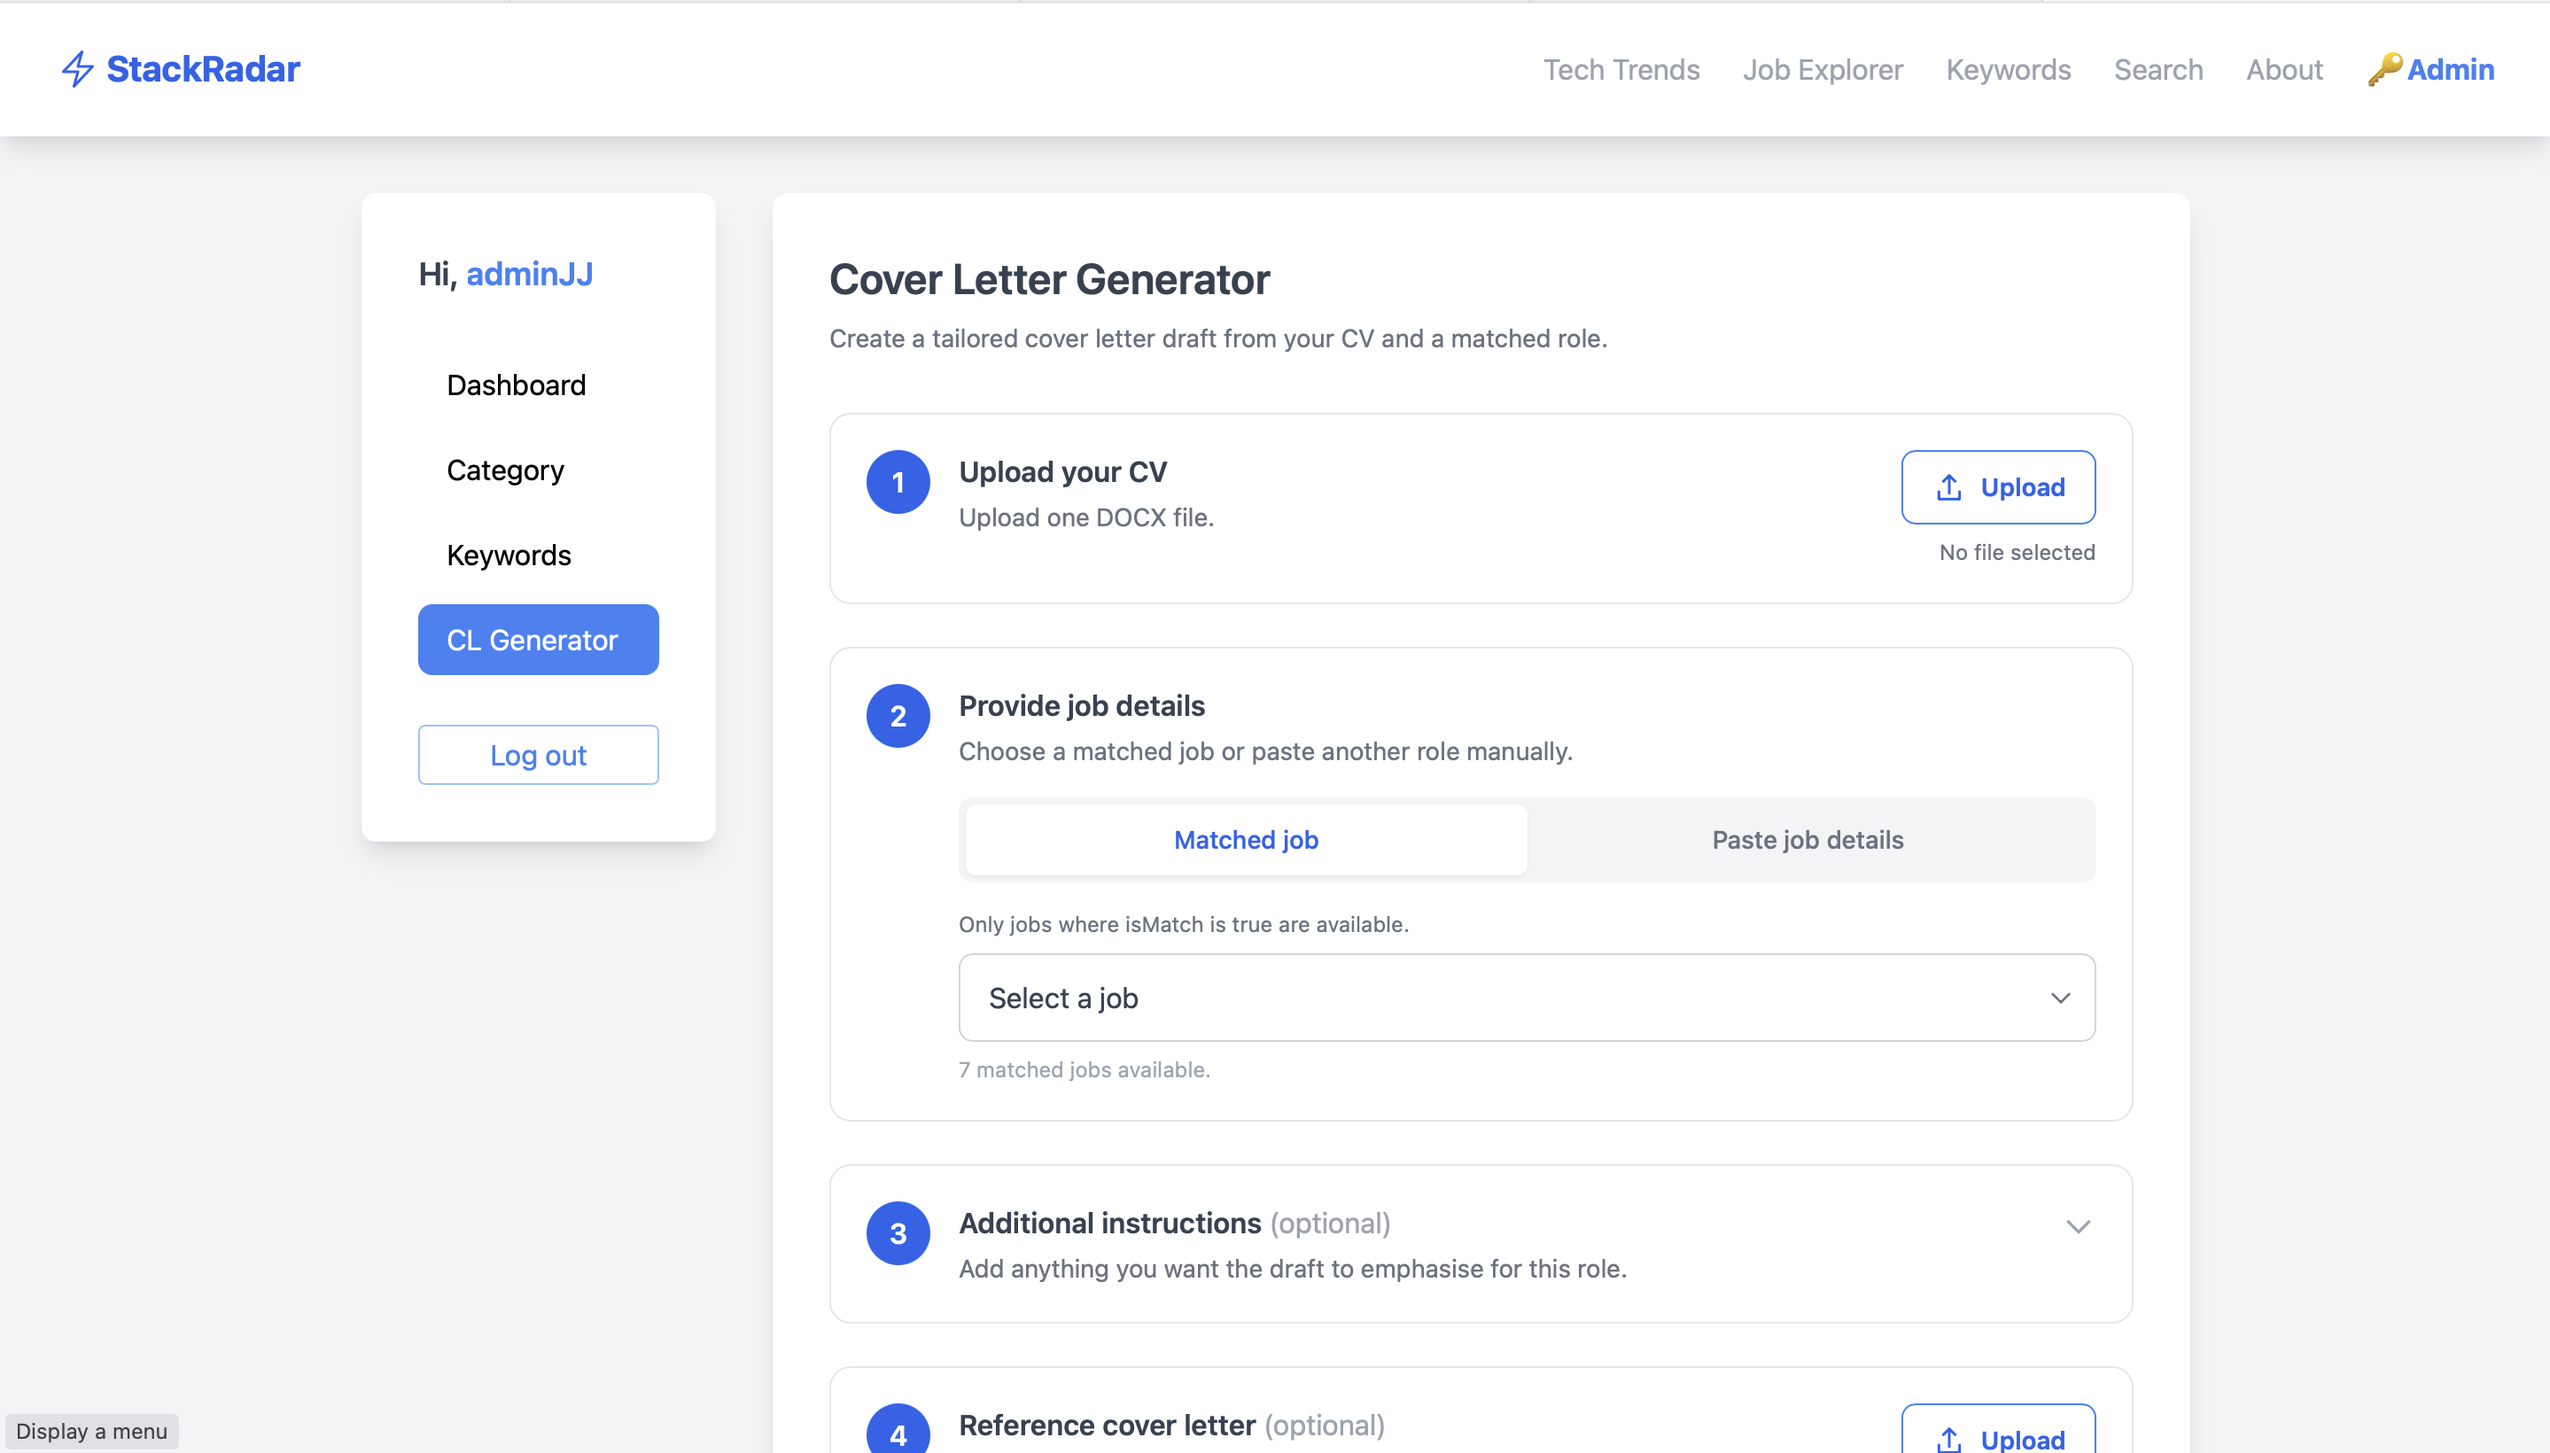
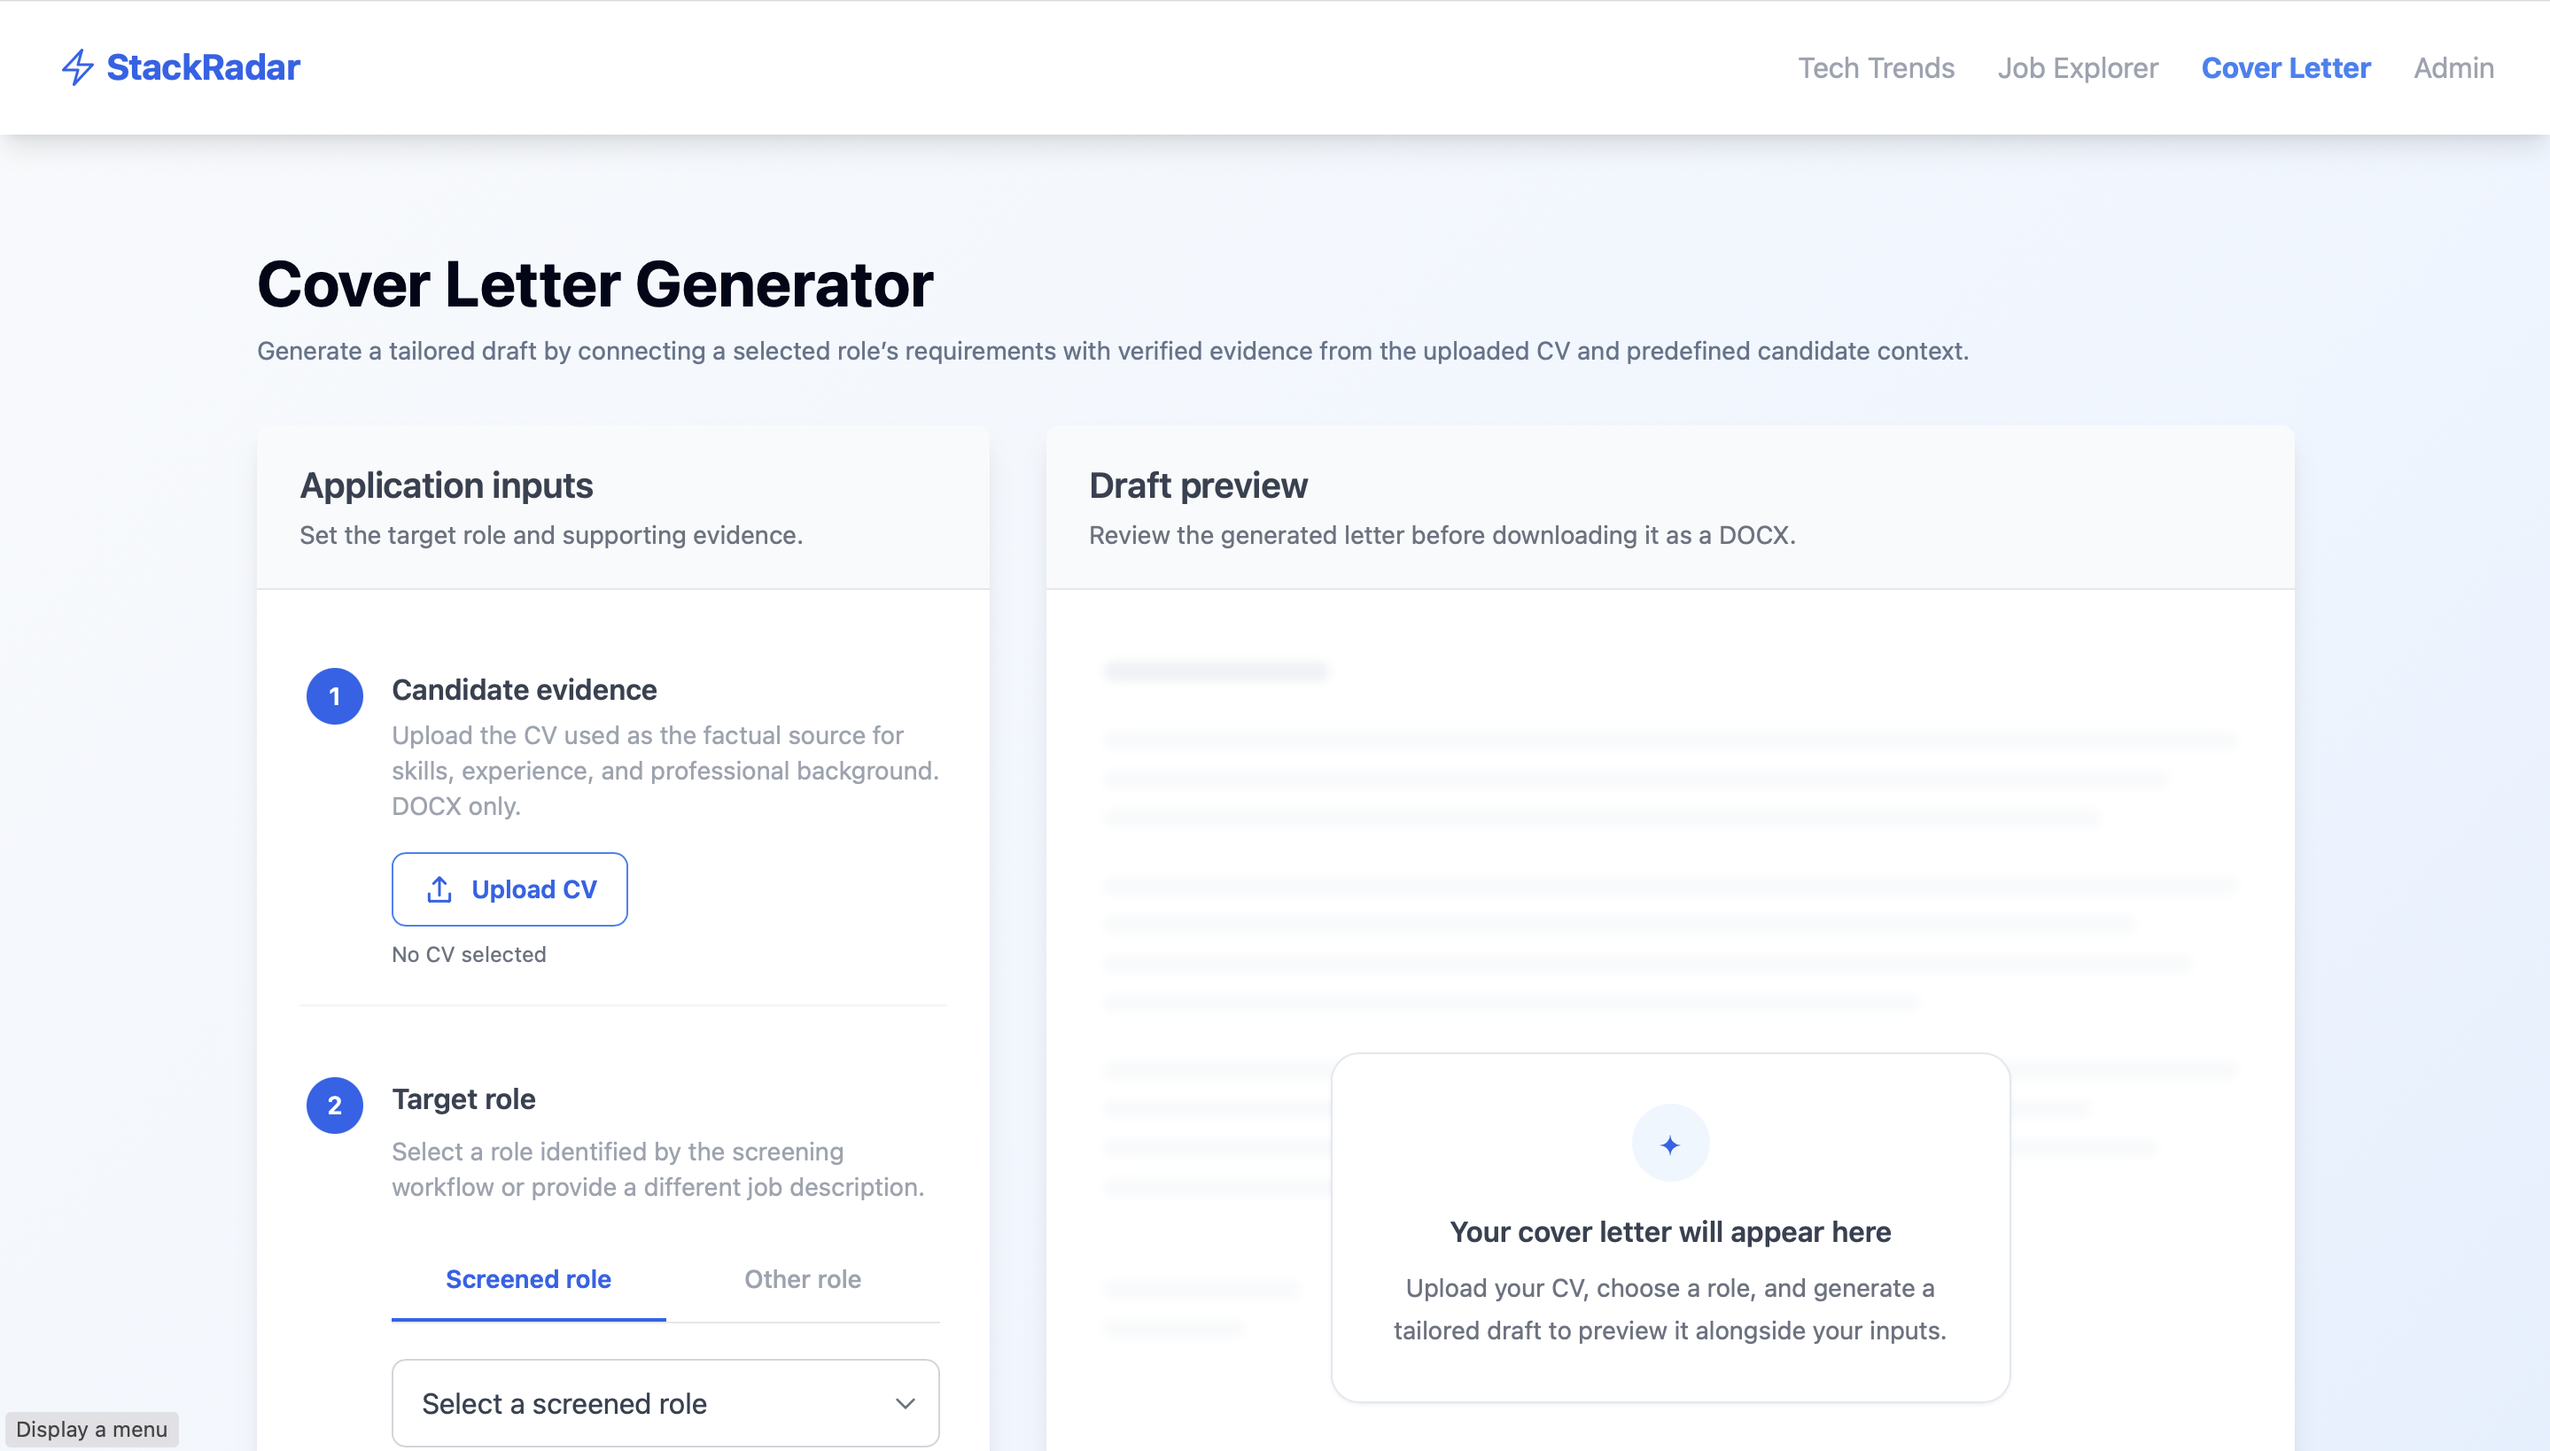
Updated Landing Page

diff --git a/02_frontend/index.html b/02_frontend/index.html
@@ -15,7 +15,7 @@
         <script src="https://cdn.jsdelivr.net/npm/tsparticles@2/tsparticles.bundle.min.js"></script>
 
     </head>
-    <body class="relative bg-gradient-to-r from-gray-400 via-slate-50 to-slate-100 flex justify-center items-center min-h-screen p-16">
+    <body class="relative flex min-h-screen items-center justify-center bg-gradient-to-r from-gray-400 via-slate-50 to-slate-100 p-6 pt-20 sm:p-10 sm:pt-20 lg:p-16">
         <!-- background container for the tsparticles animation -->
         <div id="tsparticles" class="absolute inset-0 -z-10"></div>
         <!-- the platform name at the top left corner -->
@@ -26,54 +26,41 @@
             <div class="text-xl   text-gray-500">StackRadar</div>
         </div>
         <!-- main content container -->
-        <div class="z-10 flex flex-col lg:mt-8 items-center min-w-[375px]  ">
-            <div class="text-center  ">
-                <p class=" text-3xl sm:text-4xl  lg:text-5xl  font-bold text-blue-600  mb-4 opacity-0 animate-[fadeIn_0.5s_ease-in-out_0.7s_forwards]">
-                    Discover the Most In-Demand Tech Stacks                
-                </p>
-                <p class="text-xl font-semibold sm:text-3xl lg:text-2xl font-mono   text-gray-600 mb-10 opacity-0 animate-[fadeIn_0.5s_ease-in-out_1.4s_forwards]">
-                    From Real Job Data
-                </p>
-                <p class=" hidden md:block text-md text-gray-500 mb-6 opacity-0 animate-[fadeIn_0.5s_ease-in-out_2.1s_forwards]">
-                    A job-market analytics platform built to uncover New Zealand’s most in-demand tech stacks <br>
-                    through comprehensive analysis of real, up-to-date job postings.
-                </p>
+        <main class="relative z-10 w-full max-w-6xl">
+            <div class="grid items-stretch gap-12 lg:grid-cols-[minmax(280px,0.65fr)_minmax(0,1.35fr)] lg:gap-16">
+                <section class="flex flex-col gap-8 text-left lg:order-2">
+                    <h1 class="max-w-3xl text-4xl font-bold leading-tight text-blue-600 opacity-0 animate-[fadeIn_0.5s_ease-in-out_1.4s_forwards] sm:text-5xl lg:text-5xl">
+                        AI-Powered Job Search System
+                    </h1>
+                    <p class="max-w-2xl text-base leading-7 text-gray-600 opacity-0 animate-[fadeIn_0.5s_ease-in-out_1.9s_forwards]">
+                        Each day, StackRadar collects newly listed IT jobs from SEEK New Zealand and uses LLMs and machine learning to uncover technology trends, identify roles that match a predefined candidate profile, and generate tailored cover letters.
+                    </p>
 
-                <div class="flex  gap-x-8 mb-10 rounded-2xl max-w-[700px] mx-auto w-full  opacity-0 animate-[fadeIn_0.5s_ease-in-out_2.8s_forwards] delay-1200">
-                    <div class="w-1/3 flex justify-center  p-6  rounded-xl   ">
-                        <div class="text-center ">
-                            <div class="font-bold text-xl lg:text-3xl text-blue-600" id="jobsCount">#</div>
-                            <div class="capitalize text-md text-gray-400">Jobs Postings</div>
-                        </div>
+                    <div class="relative opacity-0 animate-[fadeIn_0.5s_ease-in-out_2.4s_forwards]">
+                        <a href="StackTrends.html" class="inline-block">
+                            <button id="exploreBtn" disabled class="cursor-not-allowed rounded-xl bg-gray-300 px-9 py-3.5 font-bold text-white shadow-lg transition-colors duration-300 sm:text-lg">
+                                <span class="flex items-center gap-x-3">
+                                    <span class="h-5 w-5 animate-spin rounded-full border-2 border-white border-t-blue-500"></span>
+                                    <span>Loading data...</span>
+                                </span>
+                            </button>
+                        </a>
+                        <p id="coldStartHint" class="mt-4 text-sm italic text-gray-400 lg:absolute lg:left-0 lg:top-full">Initial loading may take up to 1 minute due to Azure free tier limits</p>
                     </div>
+                </section>
 
-                    <div class="w-1/3 flex justify-center  p-6  rounded-xl   ">
-                        <div class="text-center  ">
-                            <div class="font-bold text-xl lg:text-3xl  text-blue-600" id="companiesCount">#</div>
-                            <div class="capitalize text-md text-gray-400">Companies included</div>
-                        </div>
+                <aside class="grid h-full w-full max-w-[320px] grid-rows-2 gap-5 justify-self-center lg:order-1 lg:justify-self-end" aria-label="StackRadar dataset summary">
+                    <div class="flex flex-col items-center justify-center rounded-2xl border border-white/70 bg-white/70 p-6 text-center shadow-lg backdrop-blur-sm opacity-0 animate-[fadeIn_0.5s_ease-in-out_0.4s_forwards]">
+                        <span class="text-4xl font-bold text-blue-600" id="jobsCount">#</span>
+                        <span class="mt-3 text-sm font-medium text-gray-500">Job Posts Analysed</span>
                     </div>
-                    <div class="w-1/3 flex justify-center  p-6  rounded-xl ">
-                        <div class="text-center ">
-                            <div class="font-bold text-xl lg:text-3xl  text-blue-600" id="techKeywordsCount">#</div>
-                            <div class="capitalize text-md text-gray-400" >Tech Keywords</div>
-                        </div>
+                    <div class="flex flex-col items-center justify-center rounded-2xl border border-white/70 bg-white/70 p-6 text-center shadow-lg backdrop-blur-sm opacity-0 animate-[fadeIn_0.5s_ease-in-out_0.9s_forwards]">
+                        <span class="text-4xl font-bold text-blue-600" id="companiesCount">#</span>
+                        <span class="mt-3 text-sm font-medium text-gray-500">Companies in Dataset</span>
                     </div>
-                </div>
-
-                <a href="StackTrends.html" class="">
-                    <button id="exploreBtn" disabled class=" bg-gray-300 mb-4 cursor-not-allowed font-bold xl:text-xl text-white  xl:w-auto py-3 px-20  md:py-4 md:px-24 shadow-lg rounded-full opacity-0 animate-[fadeIn_0.5s_ease-in-out_3.5s_forwards] delay-1200  transition-colors duration-300 ">
-                        <div class="flex items-center gap-x-4">
-                            <div class="w-5 h-5 border-2 border-white border-t-blue-500 rounded-full animate-spin"></div>
-                            <div>Loading data...</div>
-                        </div>
-                    </button>
-                </a>
-
-                <p id="coldStartHint" class="text-gray-400 mb-4 italic text-sm opacity-0 animate-[fadeIn_0.5s_ease-in-out_4.2s_forwards] delay-1200">Initial loading may take up to 1 minute due to Azure free tier limits</p>
-
+                </aside>
             </div>
-        </div>
+        </main>
         <script src="static/js/config.js"></script>
         <script src="static/js/Index.js"></script>
     </body>

diff --git a/02_frontend/CoverLetter.html b/02_frontend/CoverLetter.html
@@ -13,6 +13,13 @@
             #cover-letter-inputs:disabled label.cursor-pointer {
                 cursor: not-allowed !important;
             }
+
+            #cover-letter-inputs:disabled label[for="cover-letter-cv"],
+            #cover-letter-inputs:disabled label[for="cover-letter-reference"] {
+                border-color: #d1d5db !important;
+                background-color: #f3f4f6 !important;
+                color: #9ca3af !important;
+            }
         </style>
     </head>
     <body class="min-h-screen bg-gradient-to-br from-slate-50 via-blue-50 to-blue-100">

diff --git a/02_frontend/static/js/Index.js b/02_frontend/static/js/Index.js
@@ -15,7 +15,6 @@ function getLandingSummaryCounts() {
       .then(data => {
           document.getElementById("jobsCount").textContent = data.jobsCount;
           document.getElementById("companiesCount").textContent = data.companyCount;
-          document.getElementById("techKeywordsCount").textContent = data.keywordCount;
 
           const btn = document.getElementById("exploreBtn");
           btn.textContent = "Start Exploring";

diff --git a/README.md b/README.md
@@ -102,15 +102,19 @@ The job-level classification pipeline is designed around how people typically in
 
 ## Technology Stack
 
-| Layer | Technologies |
-| --- | --- |
-| AI and NLP | OpenAI API, structured LLM outputs, prompt engineering, Sentence Transformers, text embeddings |
-| Machine Learning | PyTorch, custom MLP classifier, PCA and t-SNE evaluation |
-| Data Pipeline | Python, Pandas, Beautiful Soup, automated ETL and enrichment workflows |
-| Backend | C#, .NET 8, ASP.NET Core Web API, JWT authentication |
-| Frontend | JavaScript, HTML, Tailwind CSS |
-| Data and Cloud | PostgreSQL, Azure Functions, Azure App Service, Azure Static Web Apps |
-| Document Processing | Open XML SDK, DOCX text extraction and generation |
+**LLM / NLP:** OpenAI API, structured LLM outputs, prompt engineering, Sentence Transformers, text embeddings
+
+**Machine Learning:** PyTorch, custom MLP classifier, PCA and t-SNE evaluation
+
+**Data Pipeline:** Python, Pandas, Beautiful Soup, automated ETL and enrichment workflows
+
+**Backend:** C#, .NET 8, ASP.NET Core Web API, JWT authentication
+
+**Frontend:** JavaScript, HTML, Tailwind CSS
+
+**Data and Cloud:** PostgreSQL, Azure Functions, Azure App Service, Azure Static Web Apps
+
+**Document Processing:** Open XML SDK, DOCX text extraction and generation
 
 ## Project Structure
 
